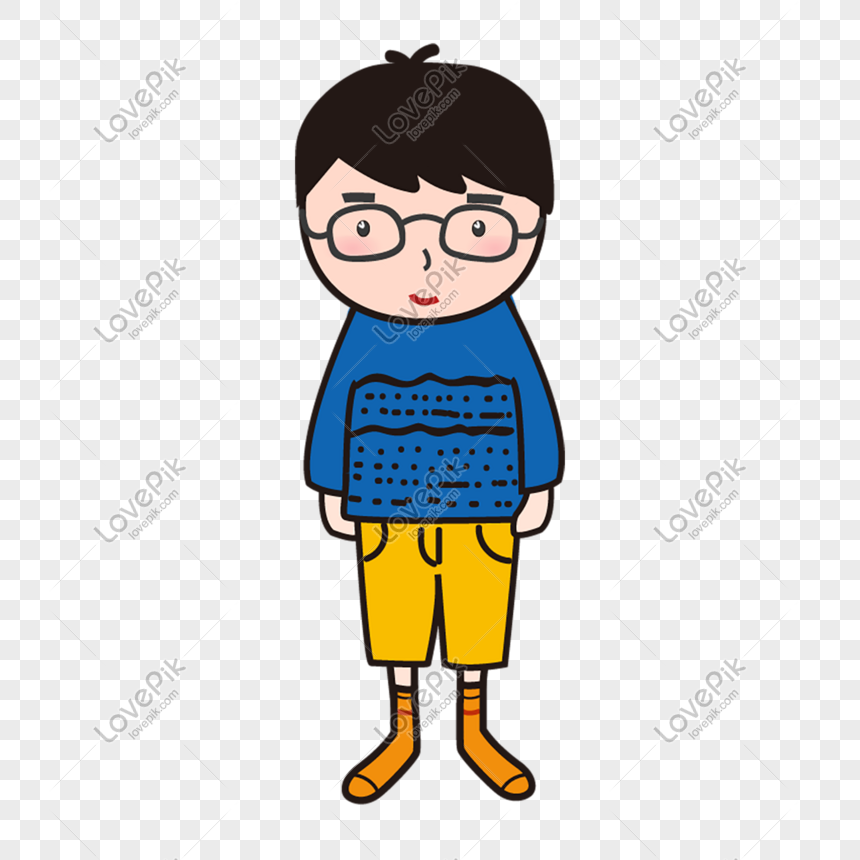
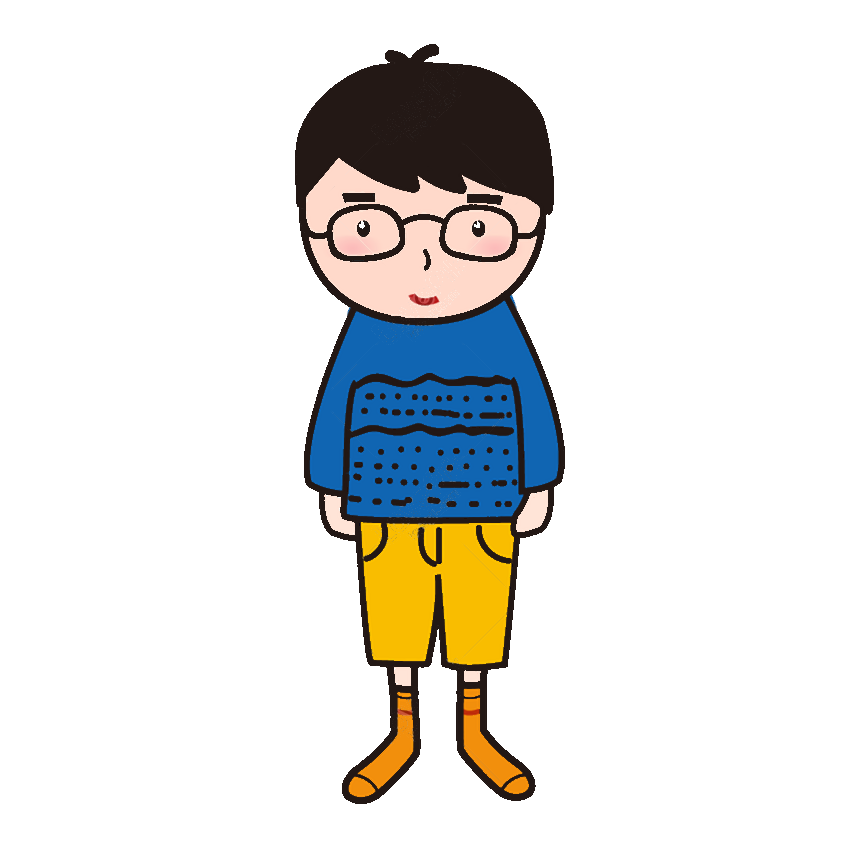
Remove LovePik watermark and checkerboard bg from player sprite

diff --git a/teachable machine/remove_watermark.py b/teachable machine/remove_watermark.py
@@ -1,0 +1,94 @@
+from PIL import Image
+import numpy as np
+
+SRC = "player.png"
+DST = "player_clean.png"
+
+PAL = [
+    (35, 24, 21),     # hair / outline
+    (16, 101, 178),   # blue shirt
+    (249, 189, 0),    # yellow
+    (255, 217, 202),  # skin
+    (242, 143, 12),   # orange
+    (255, 228, 215),  # light skin shade
+    (255, 255, 255),  # eye whites
+]
+WS = [0.0, 255.0]           # watermark ink colors
+TOL = 14.0                  # residual tolerance
+A_MIN, A_MAX = 0.05, 0.45   # plausible watermark alpha range
+
+im = Image.open(SRC).convert("RGB")
+arr = np.asarray(im).astype(np.float32)
+H, Wd, _ = arr.shape
+
+best_res = np.full((H, Wd), np.inf, np.float32)
+best_a = np.zeros((H, Wd), np.float32)
+best_base = arr.copy()
+
+for c in PAL:
+    c = np.array(c, np.float32)
+    for Wv in WS:
+        d = Wv - c
+        denom = float(d @ d)
+        if denom == 0:
+            continue
+        diff = arr - c
+        a = np.clip((diff @ d) / denom, 0.0, A_MAX)
+        recon = c[None, None, :] + a[:, :, None] * d[None, None, :]
+        res = np.linalg.norm(arr - recon, axis=2)
+        better = res < best_res
+        best_res = np.where(better, res, best_res)
+        best_a = np.where(better, a, best_a)
+        best_base = np.where(better[:, :, None], np.broadcast_to(c, arr.shape), best_base)
+
+watermarked = (best_res < TOL) & (best_a > A_MIN)
+out = np.where(watermarked[:, :, None], best_base, arr)
+
+print("watermarked px:", int(watermarked.sum()), "/", H * Wd)
+
+# --- background removal: flood fill from border, de-watermarked grays near 255/235 ---
+def is_bg(a):
+    r, g, b = a[:, :, 0], a[:, :, 1], a[:, :, 2]
+    gray = (np.abs(r - g) < 8) & (np.abs(g - b) < 8)
+    near_white = (r > 246) | (np.abs(r - 235) < 6)
+    return gray & near_white
+
+# de-watermark first for bg test too (watermark on bg handled above since 255/235 in palette)
+mask = is_bg(out)
+# flood fill from borders
+from collections import deque
+bg = np.zeros((H, Wd), bool)
+q = deque()
+for x in range(Wd):
+    for y in (0, H - 1):
+        if mask[y, x] and not bg[y, x]:
+            bg[y, x] = True; q.append((y, x))
+for y in range(H):
+    for x in (0, Wd - 1):
+        if mask[y, x] and not bg[y, x]:
+            bg[y, x] = True; q.append((y, x))
+while q:
+    y, x = q.popleft()
+    for ny, nx in ((y-1,x),(y+1,x),(y,x-1),(y,x+1)):
+        if 0 <= ny < H and 0 <= nx < Wd and mask[ny, nx] and not bg[ny, nx]:
+            bg[ny, nx] = True; q.append((ny, nx))
+print("bg px:", int(bg.sum()))
+
+# halo cleanup: light desaturated pixels adjacent to bg
+halo = out.copy()
+for _ in range(3):
+    nb = np.zeros_like(bg)
+    nb[1:, :] |= bg[:-1, :]; nb[:-1, :] |= bg[1:, :]
+    nb[:, 1:] |= bg[:, :-1]; nb[:, :-1] |= bg[:, 1:]
+    ring = nb & ~bg
+    r, g, b = halo[:, :, 0], halo[:, :, 1], halo[:, :, 2]
+    light_gray = (r > 180) & (np.abs(r - g) < 14) & (np.abs(g - b) < 14)
+    newbg = ring & light_gray
+    if not newbg.any():
+        break
+    bg |= newbg
+print("bg after halo:", int(bg.sum()))
+
+rgba = np.dstack([out.astype(np.uint8), np.where(bg, 0, 255).astype(np.uint8)])
+Image.fromarray(rgba, "RGBA").save(DST)
+print("saved", DST)
